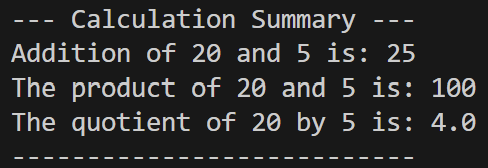
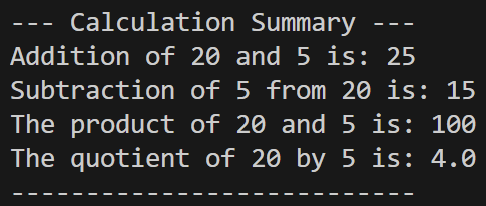
Edited Main.py and changed exmaple.jpg
Edited Main.py to include difference.py and changed the demo image to reflect this change.

Changed region(s): [[0.0, 0.0298, 0.9877, 0.8333], [0.0309, 0.9226, 0.8642, 0.9524], [0.7716, 0.0893, 0.8642, 0.1488]]

diff --git a/.idea/Main.py b/.idea/Main.py
@@ -1,4 +1,5 @@
 import Addition
+import difference
 import product
 import division
 
@@ -17,6 +18,7 @@ def main():
     # 3. Print the results and a simple calculation
     print("\n--- Calculation Summary ---")
     print(f"Addition of {num1} and {num2} is: {Addition.addition(num1,num2)}")
+    print(f"Subtraction of {num2} from {num1} is: {difference.difference(num1,num2)}")
     print(f"The product of {num1} and {num2} is: {product.product(num1,num2)}")
     print(f"The quotient of {num1} by {num2} is: {division.division(num1,num2)}")
     print("---------------------------")
